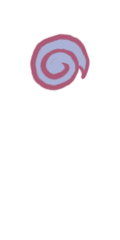
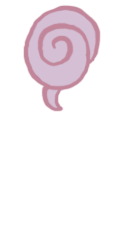
Update sprites.

Changed region(s): [[0.175, 0.0, 0.85, 0.4667]]

diff --git a/scripts/cauldron.js b/scripts/cauldron.js
@@ -103,6 +103,11 @@ const makeCauldronSprite = () => {
         "cauldron-smoke/23",
         "cauldron-smoke/24",
         "cauldron-smoke/25",
+        "cauldron-smoke/26",
+        "cauldron-smoke/27",
+        "cauldron-smoke/28",
+        "cauldron-smoke/29",
+        "cauldron-smoke/30",
     ])
 
     return cauldronSprite

diff --git a/scripts/imageLoader.js b/scripts/imageLoader.js
@@ -90,7 +90,7 @@ const imageLoader = (addImage) => {
         addImage(`golemer/${i}`)
     }
 
-    for (let i = 1; i <= 25; i++) {
+    for (let i = 1; i <= 30; i++) {
         addImage(`cauldron-smoke/${i}`)
     }
 
